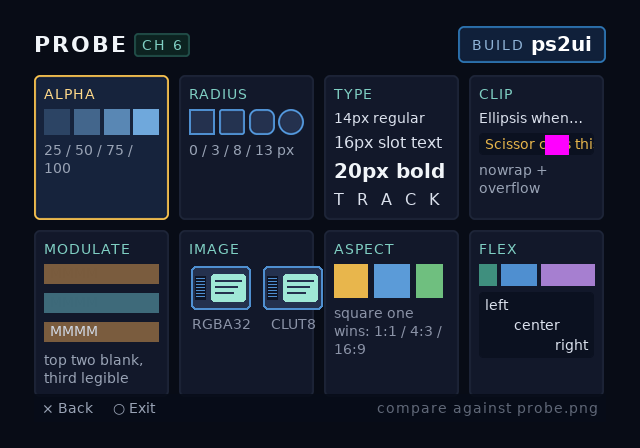
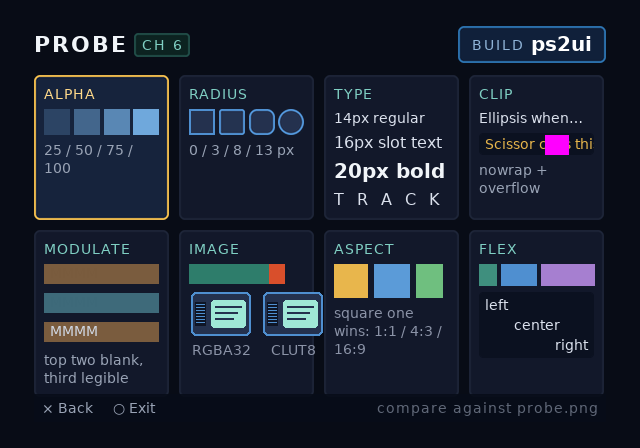
Step 3: a swizzle tile where a stripe's position names the failing bit
The CLUT ships linearly and the runtime permutes it on upload, swapping
bits 3 and 4 of the palette index, so step 3 asks whether
ps2ui_clut_csm1 agrees with the GS. It used to ask by looking at text
and deciding whether the glyphs seemed garbled -- a judgement of
appearance, which is the failure mode that cost the step 2 probe three
rewrites.

A straight swap is symmetric and therefore invisible: two regions using
indices 8 and 16 exchange colours and look like a boundary either way.
The tile breaks the symmetry with index 0, which the permutation does
not touch. Index 0 beside index 8 with linear[0] = linear[8] = X and
linear[16] = Y tests bit 3; indices 32 and 48 with the trap at 40 test
bit 4 in the next 32-block.

    correct         X X X X X | Y     one stripe, hard right
    bit 3 wrong     X Y X X X | Y
    bit 4 wrong     X X X Y X | Y
    no permutation  X Y X Y X | Y

So the stripe's position names the bit rather than only reporting
"wrong". Verified against the real baked CLUT rather than argued:
skipping the permutation changes exactly regions 1 and 3, which are the
two probes.

The last pair is the calibration. Its indices carry genuinely different
entries and both sit below bit 3, so no permutation can remove that
stripe -- without it, "I see no stripes" and "this cell cannot show me
a stripe" are the same observation.

check.py asserts the traps still differ from the probes, because if
linear[16] ever equalled linear[8] a bit-3 fault would render
[…]

Changed region(s): [[0.2812, 0.5625, 0.5312, 0.8125]]

diff --git a/examples/channel6/ui/channel6.css b/examples/channel6/ui/channel6.css
@@ -280,9 +280,17 @@ h1 {
   gap: 10px;
 }
 
-/* Seven cells at 135px wrap 4 + 3 inside the 572px content width
- * (4*135 + 3*10 gap = 570), which is what keeps the third row from
- * pushing the footer off a 448-line frame. */
+/* EIGHT cells at 135px wrap 4 + 4 inside the 572px content width
+ * (4*135 + 3*10 gap = 570). A ninth starts a third row, and the third
+ * row pushes the footer off a 448-line frame -- adding one put
+ * `probe-flex`'s text at y=474 and y=514 on a 448-tall canvas, with
+ * twelve overscan warnings to say so. That is why the swizzle tile
+ * lives inside the IMAGE cell rather than in a cell of its own: it is
+ * a PSMT8+CLUT source, so it belongs there anyway, and the grid has no
+ * room to disagree.
+ *
+ * Anything new goes inside an existing cell, or the cells get narrower
+ * and every tile inside them has to be re-fitted. */
 .cell {
   flex-direction: column;
   width: 135px;
@@ -496,6 +504,38 @@ h1 {
  * no text" and "this cell renders no text at all" are the same
  * observation, and rows 1 and 2 would be unfalsifiable. */
 .ink-c { color: #d0d8e4; }
+
+/* Bring-up step 3, asked as "is there a stripe here".
+ *
+ * The CLUT ships linearly and the runtime permutes it on upload,
+ * swapping bits 3 and 4 of the palette index. This tile is built from
+ * indices chosen so a correct permutation renders it flat and a wrong
+ * one breaks it into stripes -- see tools/make_swizzle_tile.py for the
+ * construction and why a straight swap of two indices would have been
+ * invisible.
+ *
+ *   correct        [ X X X X X | Y ]   one stripe, hard against the right
+ *   bit 3 wrong    a stripe appears at 1/6
+ *   bit 4 wrong    a stripe appears at 3/6
+ *
+ * So the tile does not only say "wrong", it says which bit.
+ *
+ * The last pair is the calibration: its two indices carry genuinely
+ * different palette entries, so no permutation can remove that stripe.
+ * If it is missing, the cell cannot show a stripe at all and the run is
+ * void rather than a pass.
+ *
+ * Width and height are the PNG's own. An indexed source laid out at any
+ * other size is a build error, because resampling index values is
+ * meaningless -- which is exactly the property this tile depends on.
+ *
+ * It sits in the IMAGE cell rather than one of its own: it IS a
+ * PSMT8+CLUT source, so it is the third member of that cell's family,
+ * and a ninth cell overflows the grid (see .cell). */
+.swz {
+  width: 96px;
+  height: 20px;
+}
 
 /* Images: identical source, PSMCT32 on the left, PSMT8+CLUT right. */
 .img-row { flex-direction: row; align-items: center; gap: 8px; }

diff --git a/examples/channel6/ui/probe.html b/examples/channel6/ui/probe.html
@@ -66,6 +66,7 @@
 
     <div class="cell" id="probe-image" focusable>
       <p class="cell-label">IMAGE</p>
+      <img class="swz" src="assets/swizzle.png" palettize>
       <div class="img-row">
         <div class="img-col">
           <img class="img-sample" src="assets/card.png">

diff --git a/tools/make_swizzle_tile.py b/tools/make_swizzle_tile.py
@@ -1,0 +1,94 @@
+#!/usr/bin/env python3
+"""Build the CSM1 swizzle tile (bring-up step 3).
+
+The CLUT is stored linearly in the .uib and the *runtime* permutes it on
+upload (`ps2ui_clut_csm1`), swapping bits 3 and 4 of the palette index.
+Step 3 asks whether that permutation agrees with the GS. With a correct
+one, index i renders linear[i]; with a wrong one it renders
+linear[csm1(i)].
+
+Asking "do the glyphs look garbled" is the failure mode that cost the
+step 2 probe three rewrites -- it wants a judgement of appearance. This
+tile asks whether a stripe is there.
+
+A straight swap is symmetric and therefore invisible: two regions using
+indices 8 and 16 just exchange colours, which looks like a boundary
+either way. Break the symmetry with an index the swap does not touch.
+
+    bit 3:  index 0 beside index 8    linear[0]=X linear[8]=X linear[16]=Y
+    bit 4:  index 32 beside index 48  linear[32]=X linear[48]=X linear[40]=Y
+    calib:  index 1 beside index 2    linear[1]=X linear[2]=Y
+
+Indices 0, 1, 2 have bit3 == bit4 == 0, so the permutation leaves them
+where they are. Every X region is therefore flat on correct hardware and
+the tile reads:
+
+    [ X X X X X | Y ]     one stripe, hard against the right edge
+
+A bit-3 fault turns region B into Y and a stripe appears at 1/6. A bit-4
+fault turns region D into Y and one appears at 3/6. So the tile does not
+merely say "wrong" -- the stripe's position names which bit.
+
+The calibration is the last pair. Its two indices carry genuinely
+different palette entries, so its boundary is unconditional: no
+permutation, right or wrong, can remove it. Without it, "I see no
+stripes" and "this cell cannot show me a stripe" are the same
+observation and the first two probes prove nothing.
+
+Run from the repo root:
+
+    python3 tools/make_swizzle_tile.py examples/channel6/ui/assets/swizzle.png
+"""
+import sys
+
+from PIL import Image
+
+# Not used anywhere else in the probe, and far apart in both hue and
+# luminance so the stripe survives a photograph of a CRT.
+X = (0x2e, 0x7d, 0x6b)   # teal
+Y = (0xd9, 0x4f, 0x2b)   # orange
+
+# (index, colour). The three Y entries are traps: nothing draws them on
+# correct hardware except the calibration's.
+PALETTE = {
+    0: X, 8: X, 16: Y,      # bit 3: 0 <-> 8, trap at 16
+    32: X, 48: X, 40: Y,    # bit 4: 32 <-> 48, trap at 40
+    1: X, 2: Y,             # calibration, untouched by the permutation
+}
+REGIONS = [0, 8, 32, 48, 1, 2]
+
+CELL_W = 16
+HEIGHT = 20
+
+
+def build() -> Image.Image:
+    w = CELL_W * len(REGIONS)
+    img = Image.new("P", (w, HEIGHT))
+    flat = [0, 0, 0] * 256
+    for idx, rgb in PALETTE.items():
+        flat[idx * 3:idx * 3 + 3] = list(rgb)
+    img.putpalette(flat)
+    for col, idx in enumerate(REGIONS):
+        for x in range(col * CELL_W, (col + 1) * CELL_W):
+            for y in range(HEIGHT):
+                img.putpixel((x, y), idx)
+    return img
+
+
+def main(argv):
+    if len(argv) != 2:
+        print(f"usage: {argv[0]} <out.png>", file=sys.stderr)
+        return 2
+    img = build()
+    # Bit depth matters: the baker reads mode "P" and takes the indices
+    # verbatim, so the file has to actually store index 48 rather than
+    # be helpfully re-encoded to a 3-colour palette. bits=8 keeps all
+    # 256 entries addressable.
+    img.save(argv[1], bits=8)
+    print(f"wrote {argv[1]}: {img.size[0]}x{img.size[1]} indexed, "
+          f"regions {REGIONS}", file=sys.stderr)
+    return 0
+
+
+if __name__ == "__main__":
+    raise SystemExit(main(sys.argv))

diff --git a/examples/channel6/check.py b/examples/channel6/check.py
@@ -251,6 +251,45 @@ def main(path: str) -> int:
           "and its ink does not match either block, so it must be "
           "legible when the vanish rows are not")
 
+    # --- bring-up step 3: the CSM1 swizzle tile ----------------------
+    #
+    # The CLUT ships linearly and the runtime permutes it on upload,
+    # swapping bits 3 and 4 of the index. The tile is built so a correct
+    # permutation renders it flat with one stripe at the right, and a
+    # wrong one puts a stripe at 1/6 (bit 3) or 3/6 (bit 4).
+    #
+    # None of that survives unless the construction does, and the
+    # construction lives in a PNG that nothing else validates. In
+    # particular the TRAP entries have to differ from the probe entries:
+    # if linear[16] ever equalled linear[8], a bit-3 fault would render
+    # identically to a correct upload and the probe could not fail.
+    swz = [t for t in uib.textures
+           if t.fmt == gs.PSMT8 and (t.width, t.height) == (96, 20)]
+    check(len(swz) == 1, f"the swizzle tile baked as PSMT8 ({len(swz)} found)")
+    if len(swz) == 1:
+        tile = swz[0]
+        check(sorted(set(tile.data)) == [0, 1, 2, 8, 32, 48],
+              f"and kept its authored indices "
+              f"({sorted(set(tile.data))})")
+        clut = uib.cluts[tile.clut]
+
+        def entry(i):
+            return tuple(clut[i * 4:i * 4 + 3])
+
+        probes = (0, 8, 32, 48, 1)
+        check(len({entry(i) for i in probes}) == 1,
+              f"every probe index carries one colour "
+              f"({sorted({entry(i) for i in probes})})")
+        # The three that must differ, and why each one matters:
+        #   16 is where index 8 lands if bit 3 is not swapped
+        #   40 is where index 48 lands if bit 4 is not swapped
+        #   2 is the calibration, which no permutation can reach
+        for trap, probe, what in ((16, 8, "bit 3"), (40, 48, "bit 4"),
+                                  (2, 1, "the calibration")):
+            check(entry(trap) != entry(probe),
+                  f"{what}: linear[{trap}] differs from linear[{probe}], "
+                  f"so a fault there is visible")
+
     # --- bring-up step 7's instrument (data-keep) --------------------
     #
     # A PAIR of magenta quads, and the pair is the instrument -- one

diff --git a/docs/bringup.md b/docs/bringup.md
@@ -428,8 +428,38 @@ captures; on composite, use your eyes.
 
 ## 3. CLUT upload and the CSM1 swizzle
 
-**Do:** enable TEXQUADs; look at any text.
-**Expect:** legible antialiased glyphs.
+**Do:** look at the bar across the top of the probe screen's
+`IMAGE` cell.
+
+**Expect:** a flat teal bar with **one orange stripe hard against its
+right edge** — nothing else.
+
+    correct        [ X X X X X | Y ]
+    bit 3 wrong     X Y X X X | Y      stripe appears at 1/6
+    bit 4 wrong     X X X Y X | Y      stripe appears at 3/6
+    no permutation  X Y X Y X | Y
+
+The stripe's *position* names which bit failed, so the cell does not
+only say "wrong". Verified against the real baked CLUT: skipping the
+permutation changes exactly regions 1 and 3, which are the two probes.
+
+**The rightmost stripe is the calibration.** Its two indices carry
+genuinely different palette entries and both sit below bit 3, so no
+permutation — right or wrong — can remove it. If it is missing, this
+cell cannot show you a stripe at all: the run is **void, not a pass**,
+and nothing above it means anything.
+
+Built by `tools/make_swizzle_tile.py`, which carries the construction
+and the reason a straight swap of two indices would have been
+invisible: swapping two regions is symmetric, so it looks like a
+boundary either way. The tile breaks that symmetry with index 0, which
+the permutation does not touch. `check.py` asserts the traps still
+differ from the probes, because if `linear[16]` ever equalled
+`linear[8]` a bit-3 fault would render identically to a correct upload.
+
+**Do (secondary):** look at any text; legible antialiased glyphs mean
+the atlas path agrees too.
+
 **If wrong (glyphs render as banded/garbled noise):** the CSM1
 permutation. CLUTs are stored *linearly* in the .uib; the runtime
 permutes on upload via `ps2ui_clut_csm1()` (bit-3/bit-4 swap). If your

diff --git a/docs/design-bringup-3-to-9.md b/docs/design-bringup-3-to-9.md
@@ -161,8 +161,8 @@ reports failure rather than only ever returning 0.
 1. ~~`.tell-twin`~~ — done; closed a vacuity that was live on `main`
 2. ~~Steps 4 and 5 vanish rows~~ — done, with the `data-nocontrast`
    exemption they needed
-3. **Step 3 swizzle tile** — blocked on the baker preserving authored
-   palettes; its own PR
+3. ~~Step 3 swizzle tile~~ — done, once the baker preserved authored
+   palettes
 4. Step 6 calibration card
 5. Steps 8 and 9 — smallest, and independent of the rest
 
